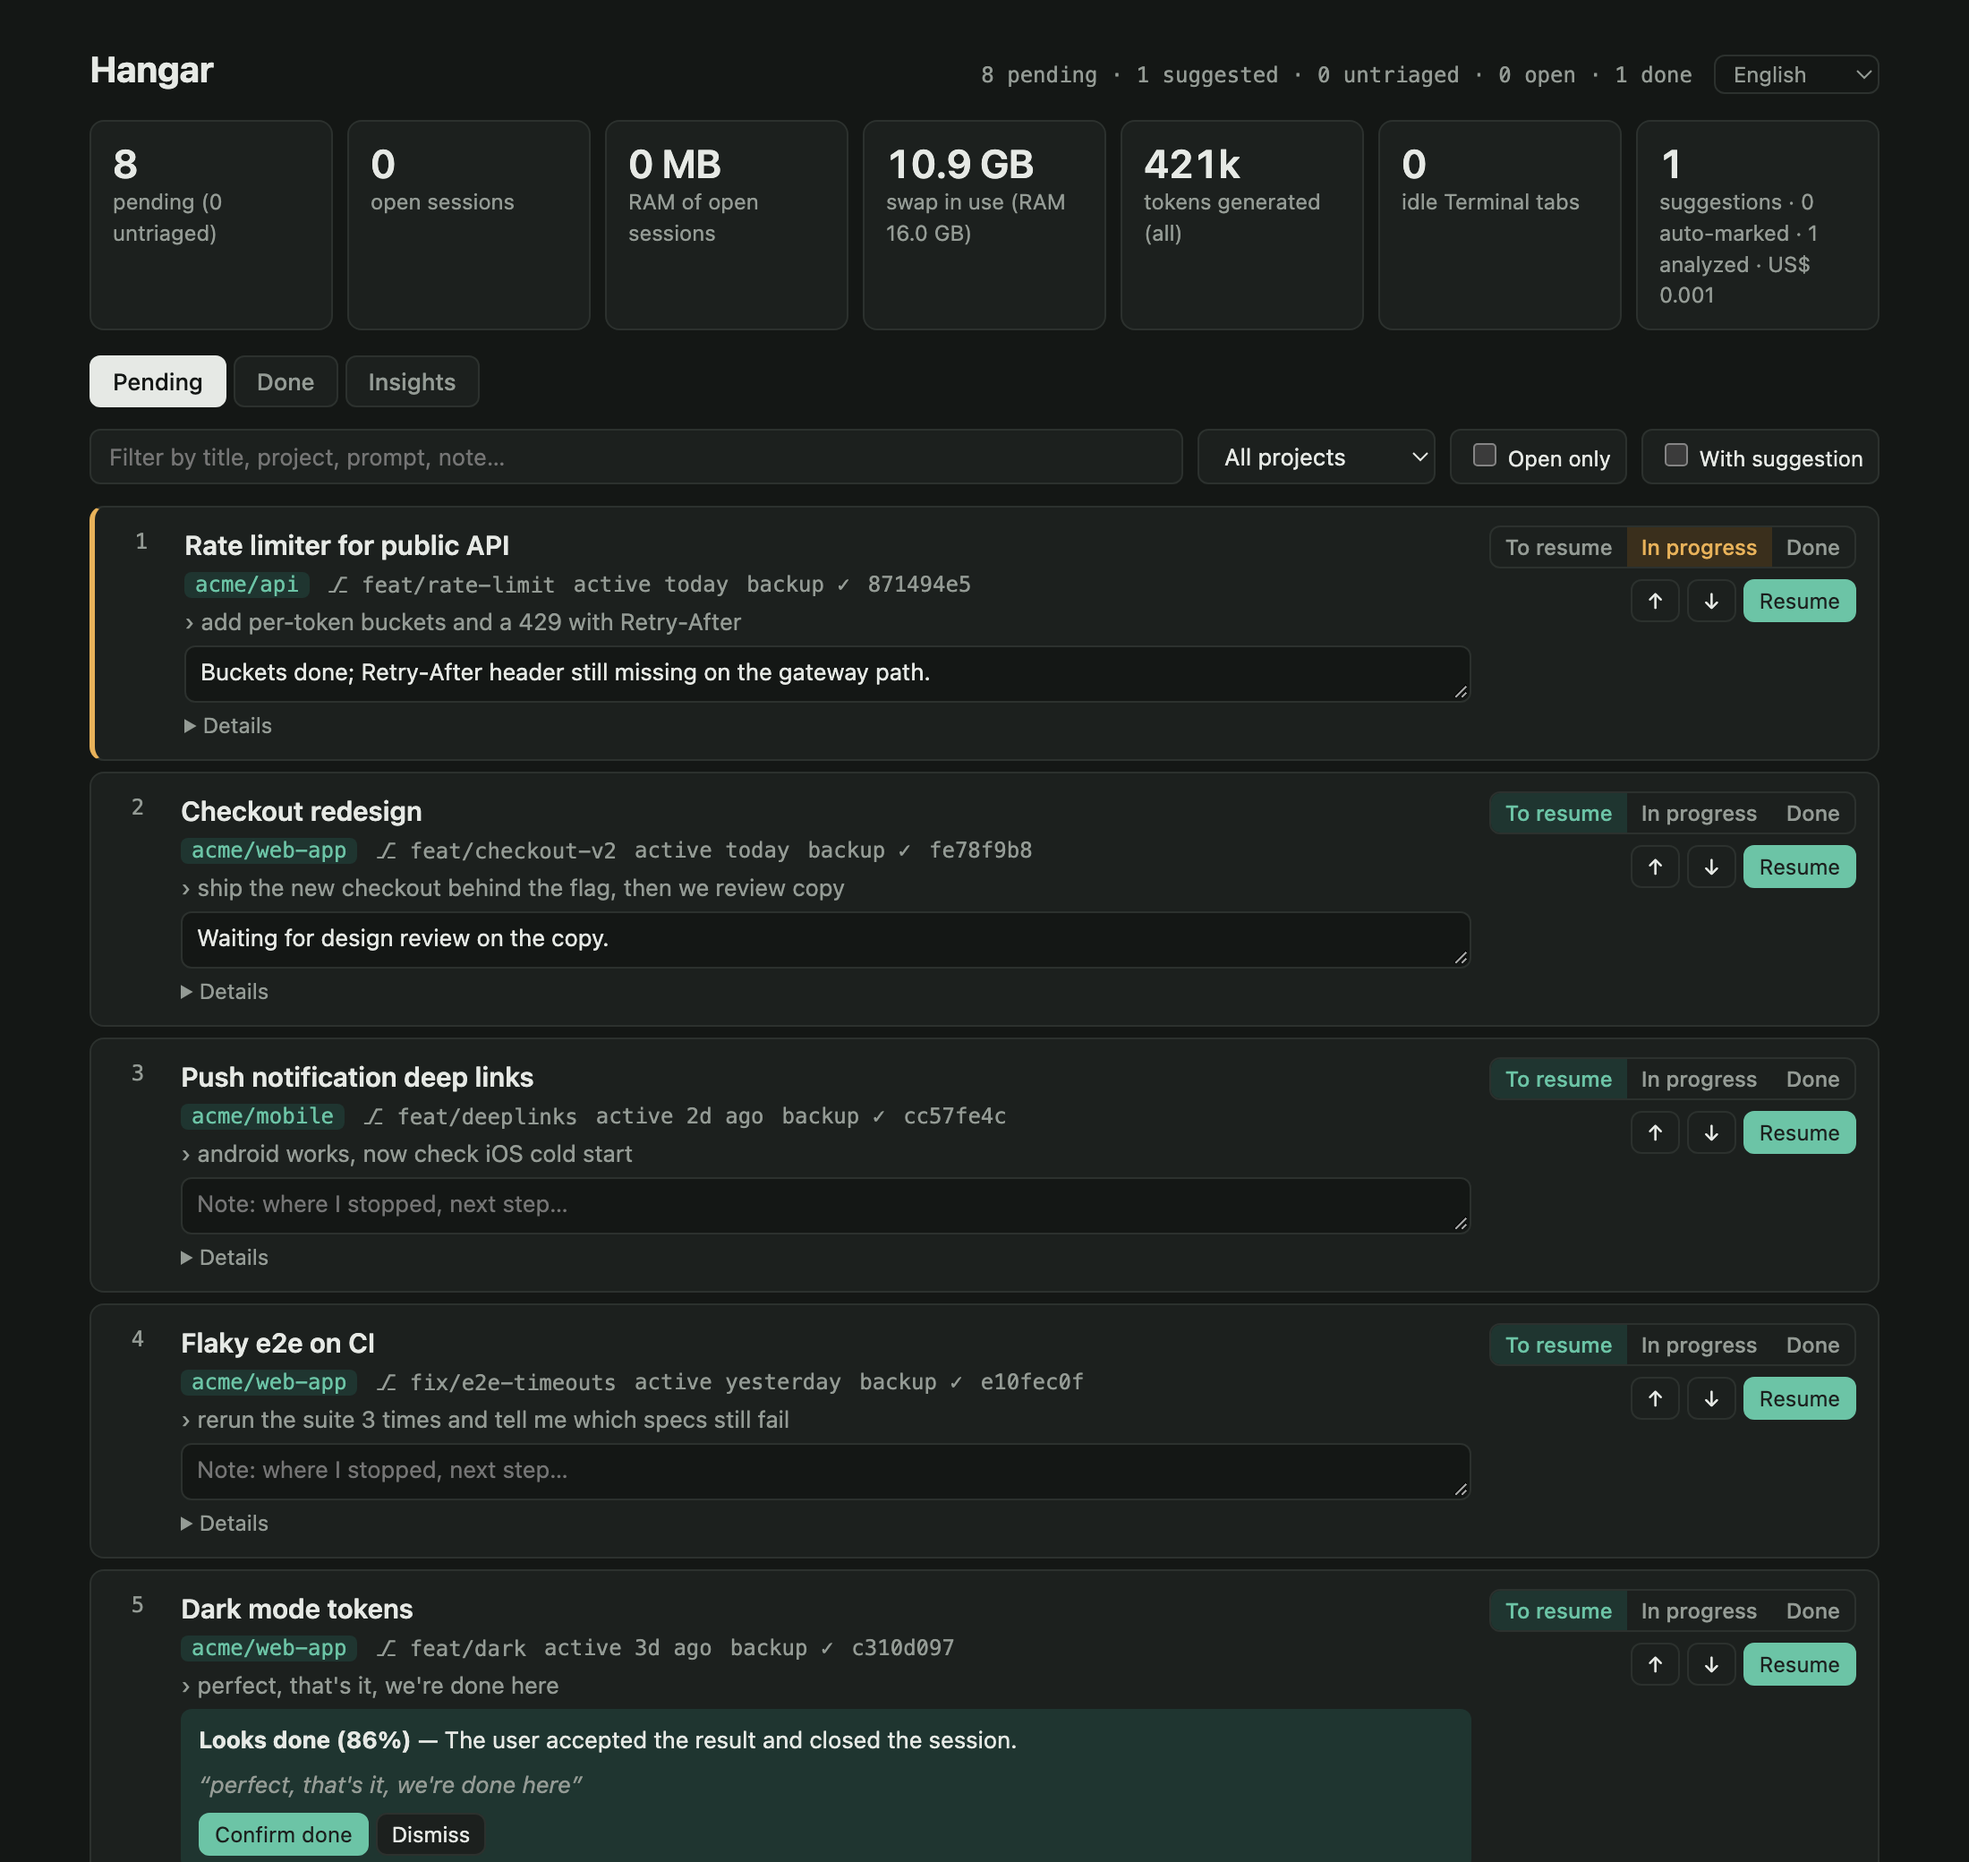
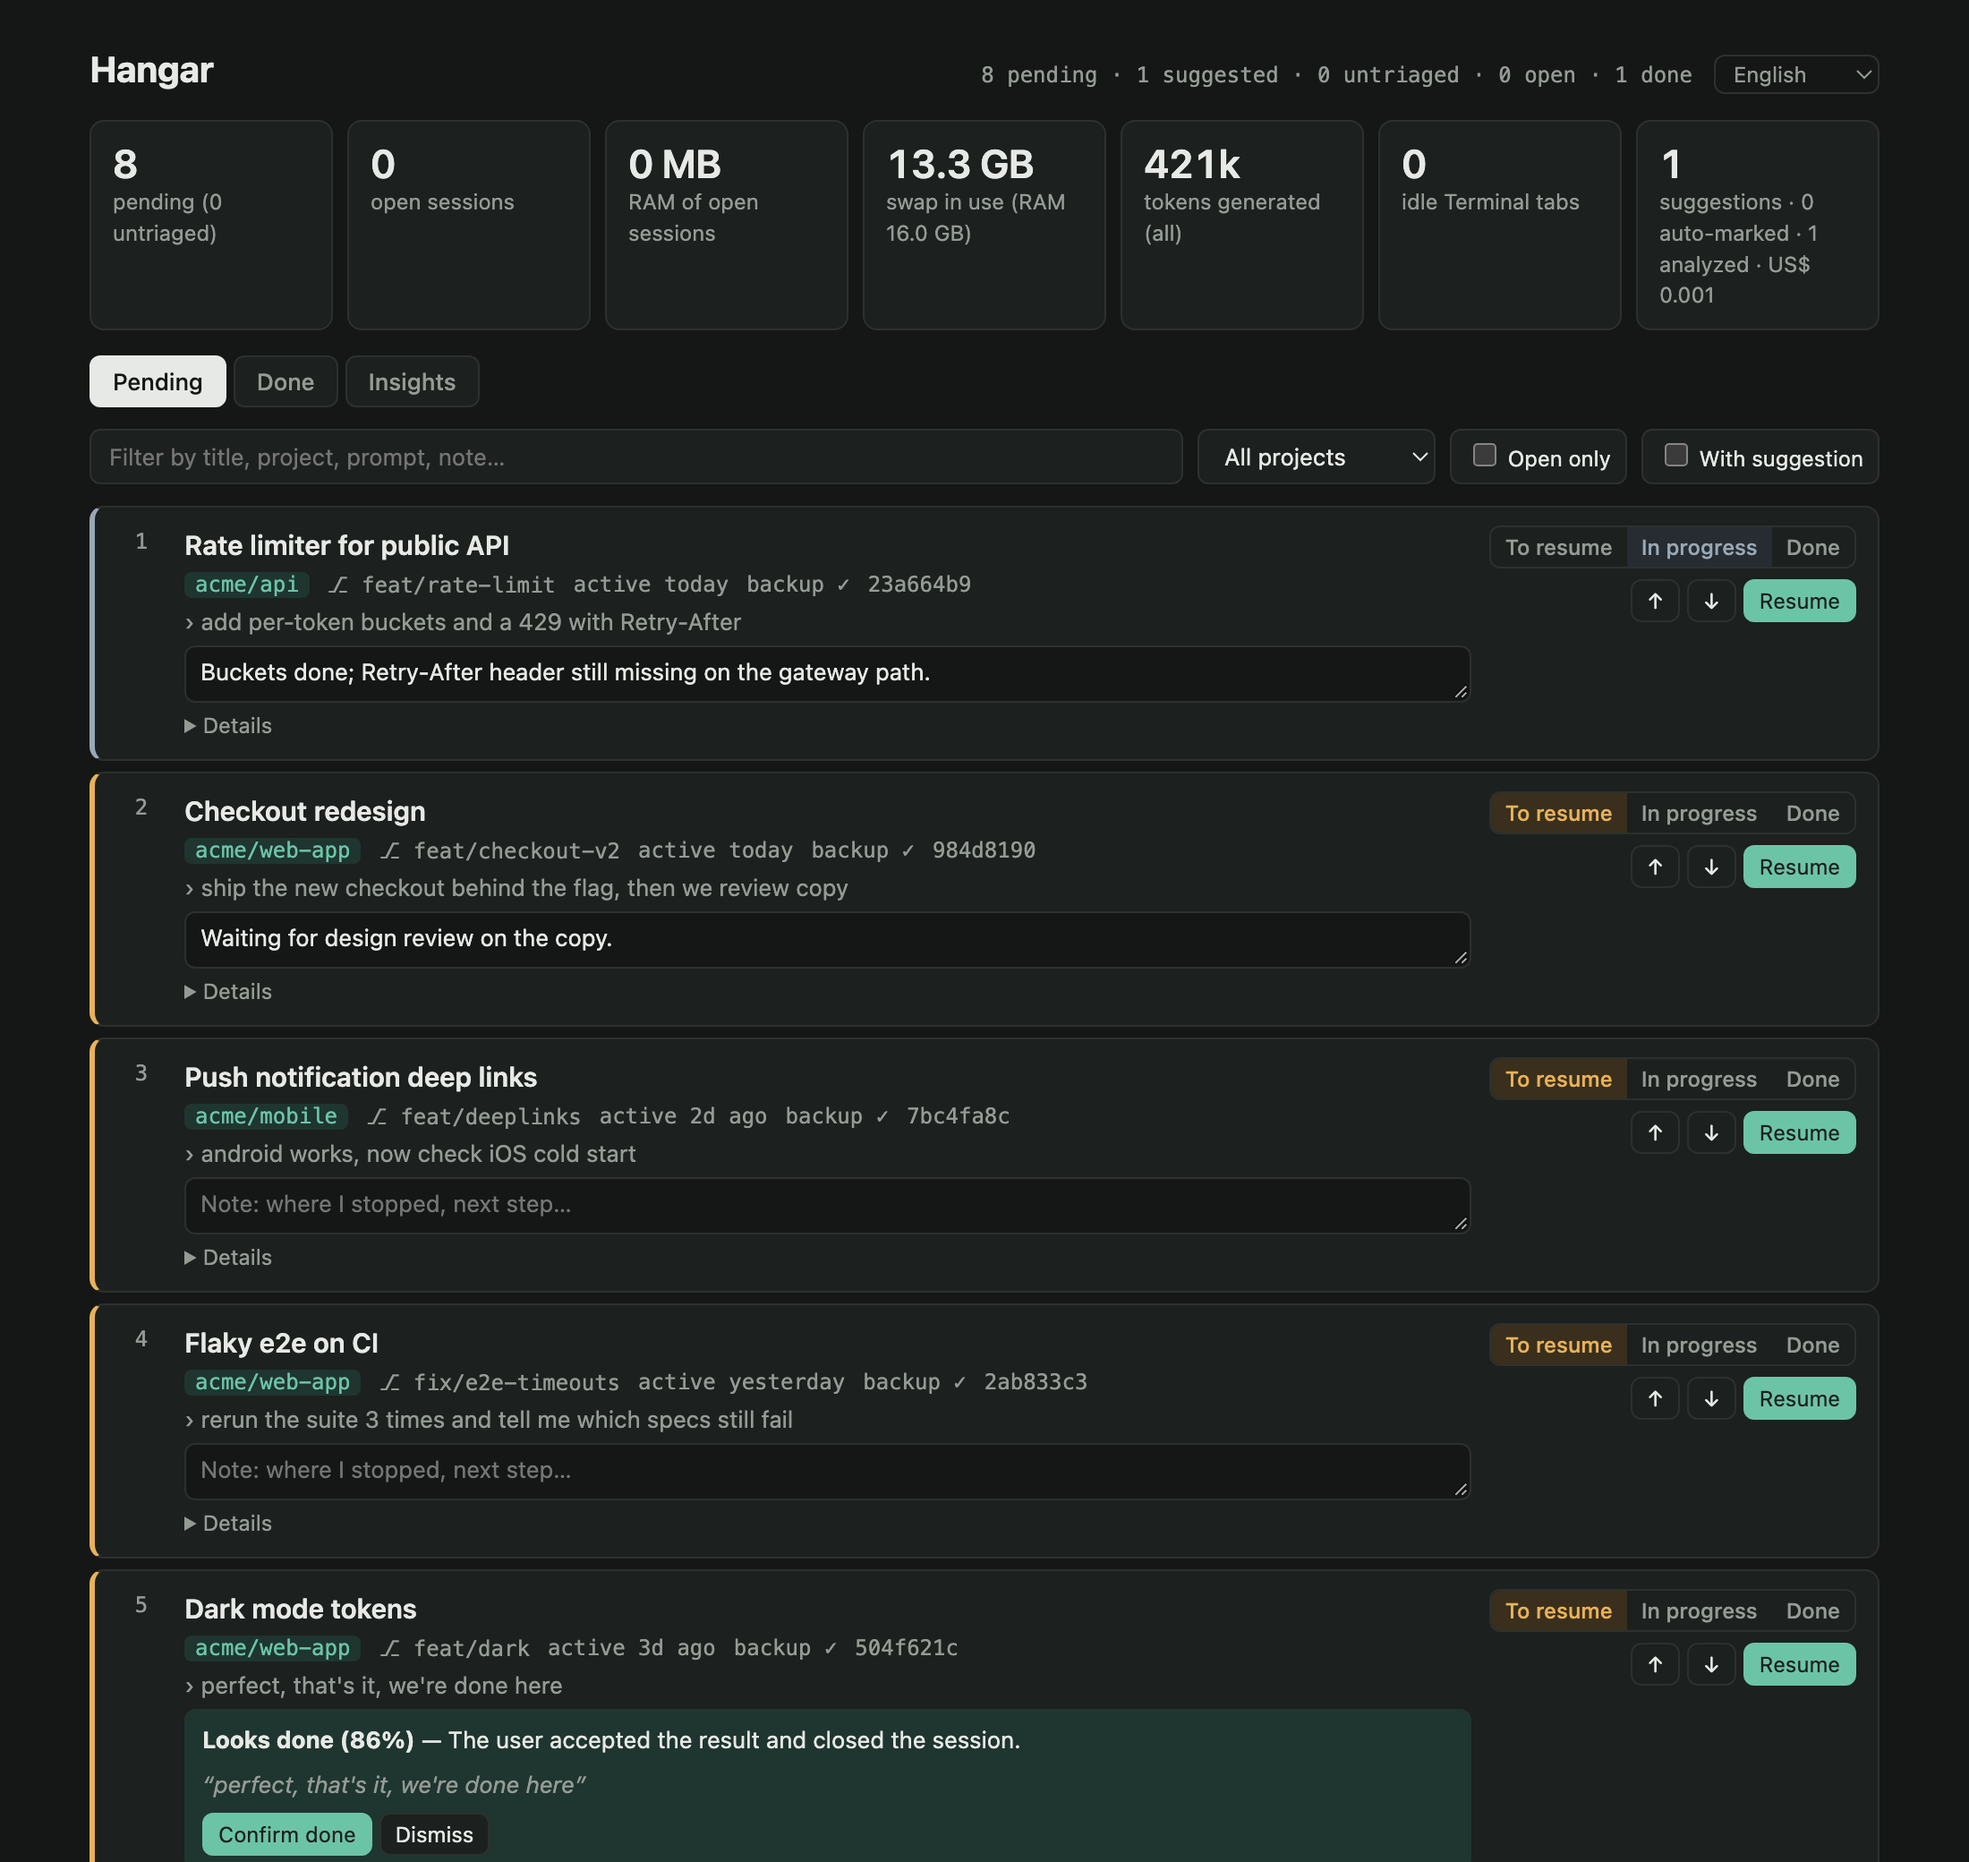
Flag stopped sessions for attention, mark in-progress ones neutrally; v0.1.1
"To resume" now carries the amber attention color (left stripe and status);
"In progress" gets a neutral slate mark instead of the warning amber.
Covered by an e2e test comparing computed colors to the theme tokens.

Test harness: the server runs in its own process group so stopping it also
stops fake binaries it spawned (they recreated files during cleanup), and the
drag test drags step by step to avoid HTML5 drag flakiness.

Claude-Session: https://claude.ai/code/session_01AvrCu6RTa11RfoAVTt63t2

diff --git a/web/index.html b/web/index.html
@@ -11,14 +11,17 @@
 <style>
 :root {
   --bg: #f3f4f1; --surface: #fff; --fg: #1c1f1d; --muted: #6a706b; --line: #dfe2dc;
-  --accent: #2f6f5e; --accent-soft: #e2efe9; --doing: #b7791f; --doing-soft: #fbf1df; --live: #2b7bd6; --danger: #b3412f;
+  --accent: #2f6f5e; --accent-soft: #e2efe9; --live: #2b7bd6; --danger: #b3412f;
+  /* status: a stopped session ("to resume") needs attention; one in progress is just marked, neutrally */
+  --attention: #b7791f; --attention-soft: #fbf1df; --progress: #5b6b7a; --progress-soft: #e8ecf0;
   --sans: -apple-system, "SF Pro Text", system-ui, sans-serif; --mono: "SF Mono", ui-monospace, Menlo, monospace;
   /* chart series (validated: light vs #fff, dark vs #1c201e) and an age ramp, recent → stale */
   --s1: #14866a; --s2: #2b6fd6; --age1: #b9e3d3; --age2: #6cc4a6; --age3: #14866a; --age4: #0b4f3e;
 }
 @media (prefers-color-scheme: dark) { :root {
   --bg: #141715; --surface: #1c201e; --fg: #e6e9e5; --muted: #949b95; --line: #2c312e;
-  --accent: #6cc4a6; --accent-soft: #1f3530; --doing: #e8b25a; --doing-soft: #3a2f1c; --live: #6aa8f0; --danger: #e07a68;
+  --accent: #6cc4a6; --accent-soft: #1f3530; --live: #6aa8f0; --danger: #e07a68;
+  --attention: #e8b25a; --attention-soft: #3a2f1c; --progress: #9aa8b5; --progress-soft: #262c31;
   --s1: #25a07f; --s2: #4f8fe6; --age1: #1f4a3d; --age2: #2f7a62; --age3: #4fb592; --age4: #9fe3c9; color-scheme: dark } }
 [hidden] { display: none !important; }
 body { margin: 0; background: var(--bg); color: var(--fg); font: 14px/1.45 var(--sans); }
@@ -35,7 +38,8 @@ nav button[aria-pressed=true] { background: var(--fg); color: var(--bg); border-
 .toolbar input { flex: 1 1 220px; min-width: 0; }
 ol { list-style: none; margin: 0; padding: 0; display: flex; flex-direction: column; gap: 6px; }
 li { background: var(--surface); border: 1px solid var(--line); border-radius: 8px; display: grid; grid-template-columns: 28px 1fr auto; gap: 10px; padding: 10px 12px; align-items: start; }
-li.doing { border-left: 3px solid var(--doing); }
+li.todo { border-left: 3px solid var(--attention); }
+li.doing { border-left: 3px solid var(--progress); }
 li.done { opacity: .6; }
 li.over { outline: 2px dashed var(--accent); outline-offset: 2px; }
 .rank { font: 500 12px var(--mono); color: var(--muted); text-align: center; padding-top: 2px; cursor: grab; user-select: none; }
@@ -52,8 +56,8 @@ textarea { width: 100%; box-sizing: border-box; font: 13px var(--sans); color: v
 .side { display: flex; flex-direction: column; align-items: flex-end; gap: 6px; }
 .status { display: inline-flex; border: 1px solid var(--line); border-radius: 6px; overflow: hidden; }
 .status button { font: 500 12px var(--sans); border: 0; background: transparent; color: var(--muted); padding: 4px 8px; cursor: pointer; }
-.status button[aria-pressed=true][data-s=todo] { background: var(--accent-soft); color: var(--accent); }
-.status button[aria-pressed=true][data-s=doing] { background: var(--doing-soft); color: var(--doing); }
+.status button[aria-pressed=true][data-s=todo] { background: var(--attention-soft); color: var(--attention); }
+.status button[aria-pressed=true][data-s=doing] { background: var(--progress-soft); color: var(--progress); }
 .status button[aria-pressed=true][data-s=done] { background: var(--line); color: var(--fg); }
 .btns { display: flex; gap: 4px; flex-wrap: wrap; justify-content: flex-end; }
 .btn { font: 12px var(--sans); border: 1px solid var(--line); background: var(--surface); color: var(--fg); border-radius: 6px; padding: 4px 8px; cursor: pointer; }

diff --git a/e2e/ui.spec.js b/e2e/ui.spec.js
@@ -52,7 +52,12 @@ test("the arrows reorder sessions", async ({ page }) => {
 });
 
 test("dragging a row onto another places it before that row", async ({ page }) => {
-  await rowOf(page, "Blog migration").dragTo(rowOf(page, "Rate limiter"));
+  // Step by step (two hovers so the target sees dragover) instead of dragTo, which is flaky for HTML5 drag under load.
+  await rowOf(page, "Blog migration").locator(".rank").hover();
+  await page.mouse.down();
+  await rowOf(page, "Rate limiter").hover();
+  await rowOf(page, "Rate limiter").hover({ position: { x: 20, y: 20 } });
+  await page.mouse.up();
   await expect(page.locator("#list li .title").first()).toHaveText("Blog migration");
 });
 
@@ -89,6 +94,26 @@ test("switching to Portuguese translates the page and is remembered", async ({ p
   await page.reload();
   await expect(page.locator("#tabs button").first()).toHaveText("Pendentes");
   await expect(page.locator("#counts")).toContainText("pendentes");
+});
+
+test("stopped sessions are flagged for attention; sessions in progress get a neutral mark", async ({ page }) => {
+  await rowOf(page, "Checkout redesign").getByRole("button", { name: "In progress" }).click();
+  const doing = rowOf(page, "Checkout redesign"), todo = rowOf(page, "Rate limiter");
+  await expect(doing).toHaveClass(/\bdoing\b/);
+  const token = (name) => page.evaluate((n) => {
+    const probe = document.createElement("i");
+    probe.style.color = `var(${n})`;
+    document.body.append(probe);
+    const c = getComputedStyle(probe).color;
+    probe.remove();
+    return c;
+  }, name);
+  const css = (loc, prop) => loc.evaluate((el, p) => getComputedStyle(el)[p], prop);
+  const [attention, progress] = [await token("--attention"), await token("--progress")];
+  expect(await css(todo, "borderLeftColor")).toBe(attention);
+  expect(await css(doing, "borderLeftColor")).toBe(progress);
+  expect(await css(todo.locator('[data-s="todo"]'), "color")).toBe(attention);
+  expect(await css(doing.locator('[data-s="doing"]'), "color")).toBe(progress);
 });
 
 test("the Insights tab shows its panels", async ({ page }) => {

diff --git a/test/helpers.js b/test/helpers.js
@@ -107,6 +107,8 @@ async function startServer(w, env = {}) {
       ...env,
     },
     stdio: ["ignore", "pipe", "pipe"],
+    // Own process group, so stop() also takes down fake binaries the server spawned for in-flight requests.
+    detached: true,
   });
   let stderr = "";
   proc.stderr.on("data", (d) => { stderr += d; });
@@ -136,8 +138,9 @@ async function startServer(w, env = {}) {
   const session = async (id) => (await sessions()).find((s) => s.id === id);
   async function stop() {
     proc.removeAllListeners("exit");
-    proc.kill();
-    await new Promise((r) => proc.once("exit", r));
+    const exited = new Promise((r) => proc.once("exit", r));
+    try { process.kill(-proc.pid, "SIGKILL"); } catch {}
+    await exited;
   }
   return { port, base, api, sessions, session, stop, stderr: () => stderr };
 }
